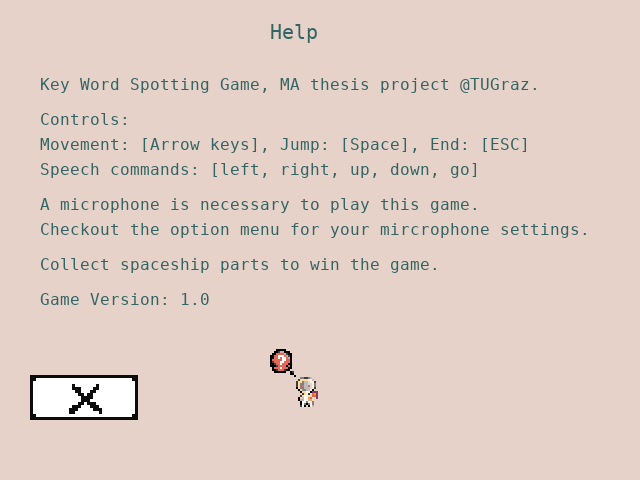
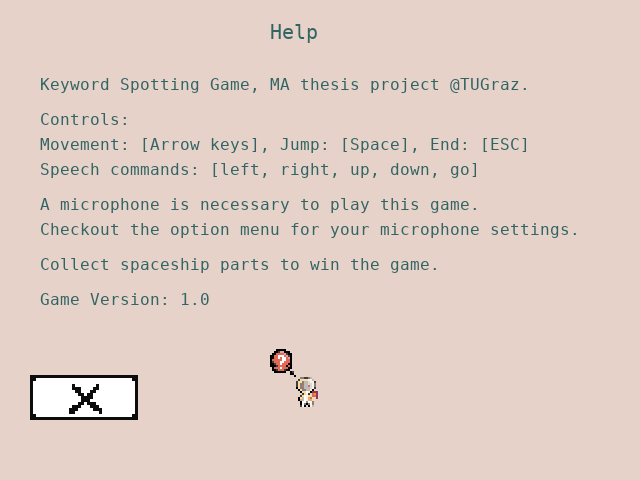
TW, JS proof-read

diff --git a/docu/thesis/1_intro/intro_rq.tex b/docu/thesis/1_intro/intro_rq.tex
@@ -3,10 +3,10 @@
 
 \section{Research Questions for this Thesis}\label{sec:intro_rq}
 This section formulates relevant research questions regarding KWS in video games.
-Those research questions can be split into 3 parts:
+They can be split into three parts:
 \begin{enumerate}[label={Q.\arabic*)}, leftmargin=1.4cm]
   \item Signal processing and feature extraction of speech signals.
-  \item Neural network training and classification for KWS.
+  \item Training of neural networks and classification for KWS.
   \item Video games with KWS.
 \end{enumerate}
 Note that the terms \enquote{key word} and \enquote{speech command} are often named interchangeably because speech commands are used as key words in the KWS system.
@@ -18,12 +18,12 @@ Nevertheless, those questions can be asked and some solution concepts discussed.
 % signal
 
 \subsection{Signal Processing and Feature Extraction Research Questions}\label{sec:intro_rq_signal}
-Acquiring meaningful features from speech signals is essential for neural networks to operate on. 
+It is essential for neural networks to input meaningful features that are extracted from the speech signals. 
 The features are extracted from raw audio samples of a microphone input stream in a specific time interval.
 Those retrieved features are further input to a neural network for the classification of speech commands.
 The following Questions arise here:
 \begin{enumerate}[label={Q.1.\alph*)}, leftmargin=1.75cm]
-  \item Which time interval should be captured to represent a speech command?\label{it:q1-a}
+  \item Which time interval should be used to capture a speech command?\label{it:q1-a}
   \item Does the signal processing have to be invariant to background noise and especially to game sounds?\label{it:q1-b}
   \item What are meaningful features for speech recognition?\label{it:q1-c}
 \end{enumerate}
@@ -39,7 +39,7 @@ Problems might occur if the speech commands are spoken repeatedly and very hasty
 Ideally the time interval to represent a speech command would be flexible but this more difficult to implement than a fixed time interval.
 
 \textbf{Question \ref{it:q1-b}:}
-Usually the presence of low background noise should not be a problem for neural networks trained on a large enough data set. 
+Usually the presence of weak background noise should not be a problem for neural networks trained on a large enough data set. 
 The game sounds might present a more difficult problem, when turned up too loud without the use of headphones. 
 Therefore, the microphone will not only capture the voice of a speaker but also a fair amount of game sounds. 
 This problem seems to be theoretically solvable as the shape of the nuisance is known and the amount of game sound in the audio stream could be attenuated sufficiently.
@@ -52,7 +52,7 @@ The determination of meaningful features for speech signals is a classical probl
 The essential composition of a word may help to understand the problematic better.
 A word is a sequential combination of either vowels, such as \enquote{a} and \enquote{e}, or consonants \enquote{k}, \enquote{l}, with a certain length. 
 In linguistics, for instance, it is possible to distinguish vowels with frequency peaks in a spectrogram, where a spectrogram is the magnitude squared of the frequency response of small time chunks over the time duration of a signal.
-However, due to many different factors in voice generation involved in speakers, such as age, gender, nationality and physiology of the vocal tract, there is a huge variance in the pronunciation of words from different persons, which increases the difficulty of the problem.
+However, due to many different factors in voice generation involved in speakers, such as age, gender, nationality, and physiology of the vocal tract, there is a huge variance in the pronunciation of words from different persons, which increases the difficulty of the problem.
 A very common approach is to use MFCCs as features for speech recognition tasks.
 Why MFCCs present reasonable features for speech, is described in detail in \rsec{signal_mfcc}.
 
@@ -60,7 +60,7 @@ Why MFCCs present reasonable features for speech, is described in detail in \rse
 % --
 % neural networks
 
-\subsection{Neural Network Implementation Research Questions}\label{sec:intro_rq_nn}
+\subsection{Neural Network Research Questions}\label{sec:intro_rq_nn}
 Neural networks for video games should ideally be very efficient and provide accurate classifications of input features.
 The vocabulary in a KWS task has to be specified for the individual game and chosen from all class labels available in the dataset.
 Each key word of the vocabulary is presented by one output node of the neural network architecture.
@@ -81,7 +81,7 @@ The dataset consist of 35 labels and contains commands for movement and numbers.
 Further, it includes randomly selected words like \enquote{marvin} or \enquote{bird} intended to represent \emph{unknown} words for the KWS system.
 It has to be noted that not every game idea can be realized with a restricted vocabulary.
 Nevertheless, with commands for movement like \enquote{left} or \enquote{go} it is possible to move objects within a game and this can already be used for many game mechanics.
-An aspect regarding efficiency, is to restrict the amount of key words in the vocabulary as much as possible such that a cheaper neural network architecture can be deployed, which of course should still be sufficiently good in its classification accuracy.
+An aspect regarding efficiency, is to restrict the amount of key words in the vocabulary as much as possible such that a lightweight neural network architecture can be deployed, which of course should still be sufficiently good in its classification accuracy.
 
 \textbf{Question \ref{it:q2-b}:} 
 Without doubt, players will try out words that are not in the vocabulary (denoted as \emph{unknown} key words) and observe the response of the video game.
@@ -112,7 +112,7 @@ Following questions can be stated:
 \end{enumerate}
 \noindent
 \textbf{Question \ref{it:q3-a}:} 
-It is crucial to reduce computations in a video game in order to keep it running fluently during high performance peaks.
+It is crucial to reduce the computational complexity in a video game in order to keep it running fluently during high performance peaks.
 Also the unnecessary processing of meaningless input data should be avoided as much as possible.
 Ideally the key word classification is activated, when there is actually a speech command present, which however is not always trivial.
 One possibility to indicate the onset of a key word is to perform the relatively efficient calculation of an energy value within a certain time interval of the raw input data stream and have a simple threshold value decide, whether a speech command is available. 

diff --git a/docu/thesis/3_signal/signal_mfcc.tex b/docu/thesis/3_signal/signal_mfcc.tex
@@ -35,7 +35,7 @@ The frequency spectrum is separated into filter bands through triangular window 
 Those window functions are equidistantly placed onto the Mel scale and therefore result in a varying number of frequency bins in the frequency scale for each window.
 The lower frequency bands receive fewer frequency bins, than the higher frequency bands.
 Sometimes the height of the individual triangular windows is scaled down such that the effect of unequal amounts frequency bins is equalized.
-However, high frequency signals usually carry less energy and therefore this scaling is in most cases neglected or not preferred.
+However, high frequency signals usually carry less energy so that this scaling is in most cases neglected or not preferred.
 
 The Mel - frequency relation can be approximated by:
 % mel
@@ -112,7 +112,7 @@ A solution to this problem is to normalize the feature vectors over each frame d
 \begin{equation}\label{eq:signal_mfcc_norm}
   U[c, m] \gets \frac{U[c, m] + \vert \underset{m \in \mathcal{M}}{\min} \bm{u}_c \vert}{\norm{\bm{u}_c + \vert \underset{m \in \mathcal{M}}{\min} \bm{u}_c \vert}_\infty} \quad \forall \, c, m = (0, 1, \dots, C - 1), (0, 1, \dots, M - 1)
 \end{equation}
-where $c$ is the individual MFCC coefficient, $m$ the frame (time) index and $\bm{u}_c \in \R^M$ the individual MFCC coefficient vector over all frames $M$.
+where $c$ is the individual MFCC coefficient, $m$ the frame (time) index, and $\bm{u}_c \in \R^M$ the individual MFCC coefficient vector over all frames $M$.
 This equation results in a value space between $[0, 1]$ for each feature vector $\bm{u}_c$.
 This normalization technique is denoted as \emph{frame-based normalization} and will be an important evaluation subject in the following sections.
 
@@ -147,7 +147,7 @@ The deltas are simply computed as frame difference of the MFCCs by:
   \Delta u_c[m] = \frac{u_c[m - 1] + u_c[m + 1]}{2}
 \end{equation}
 where $u_c[m]$ is the c-th MFCC coefficient at frame $m$, where $m = 0, 1, \dots, M$ is therefore the frame index of a total number of $M$ frames.
-Note that the computation of the deltas at the edges $m=0$ and $m=M$, is not possible and the same value is obtained from the neighbor at this specific positions.
+Note that the computation of the deltas at the edges $m=0$ and $m=M$ is not possible and that the same value is obtained from the neighbor at this specific positions.
 The second derivative of MFCC features, known as double deltas, are the frame differences of the deltas and likewise computed as in \req{signal_mfcc_delta}.
 Another enhancement is the computation of an energy feature vector of the MFCCs expressed by:
 \begin{equation}
@@ -156,7 +156,7 @@ Another enhancement is the computation of an energy feature vector of the MFCCs 
 where $\bm{u}[m] \in \R^C$ is the MFCC feature vector of frame $m$.
 The same energy computation may also be applied to the deltas and double deltas.
 
-A concatenation of all features vectors and their enhancements into a single feature matrix, is usually performed by simply stacking the MFCCs, their deltas, double deltas and energy vectors at top of each other.
+A concatenation of all features vectors and their enhancements into a single feature matrix, is usually performed by simply stacking the MFCCs, their deltas, double deltas, and energy vectors at top of each other.
 In this thesis the stacking of features and enhancements is done in following constellation:
 \begin{enumerate}
     \item 12 MFCCs
@@ -176,7 +176,7 @@ The computation of 39 MFCCs from the showcase examples are shown in \rfig{signal
     \subfigure[up]{\includegraphics[width=0.45\textwidth]{./3_signal/figs/signal_mfcc_showcase_mfcc39_up0.png}}
     \subfigure[down]{\includegraphics[width=0.45\textwidth]{./3_signal/figs/signal_mfcc_showcase_mfcc39_down0.png}}
     \subfigure[go]{\includegraphics[width=0.45\textwidth]{./3_signal/figs/signal_mfcc_showcase_mfcc39_go0.png}}
-  \caption{MFCCs extracted from the showcase examples with 32 filter bands and 12 cepstral coefficients, deltas, double deltas and energy vector visualized with frame-based normalization.}
+  \caption{MFCCs extracted from the showcase examples with 32 filter bands and 12 cepstral coefficients, deltas, double deltas, and energy vector visualized with frame-based normalization.}
   \label{fig:signal_mfcc_showcase_mfcc39}
 \end{figure}
 \FloatBarrier
@@ -194,7 +194,7 @@ The computational complexity for the extraction of MFCC features is the amount o
 All MFCC specific extraction details are collected in \rtab{signal_mfcc_extraction_params}.
 \input{./3_signal/tables/tab_signal_mfcc_extraction_params}
 The amount of operations are the total number of additions and multiplications necessary to fulfill the process.
-The major components of the MFCC are, as described in \rsec{signal_mfcc_pipeline} and summarized in \req{signal_mfcc_mfcc}, the transformation to the STFT, the weighting with the filter bands and the DCT transform.
+The major components of the MFCC are, as described in \rsec{signal_mfcc_pipeline} and summarized in \req{signal_mfcc_mfcc}, the transformation to the STFT, the weighting with the filter bands, and the DCT transform.
 The most costly component is of course the STFT, which again is composed of the DFT.
 Note that the DFT uses complex multiplications and additions.
 One complex multiplication equals to 4 real multiplication and 2 additions, so one complex multiplication consists of 6 operations.

diff --git a/game/canvas.py b/game/canvas.py
@@ -141,15 +141,14 @@ class CanvasHelpMenu(Canvas):
 
     # add text
     self.interactable_dict.update({'text_title': Text(self.canvas_surf, message='Help', position=(270, 20), font_size='small', color=self.color_bag.text_menu)})
-    self.interactable_dict.update({'text_project': Text(self.canvas_surf, message='Key Word Spotting Game, MA thesis project @TUGraz.', position=(40, 75 + 25*0 + 10*0), font_size='tiny_small', color=self.color_bag.text_menu)})
+    self.interactable_dict.update({'text_project': Text(self.canvas_surf, message='Keyword Spotting Game, MA thesis project @TUGraz.', position=(40, 75 + 25*0 + 10*0), font_size='tiny_small', color=self.color_bag.text_menu)})
     self.interactable_dict.update({'text_controls': Text(self.canvas_surf, message='Controls:', position=(40, 75 + 25*1 + 10*1), font_size='tiny_small', color=self.color_bag.text_menu)})
     self.interactable_dict.update({'text_help1': Text(self.canvas_surf, message='Movement: [Arrow keys], Jump: [Space], End: [ESC]', position=(40, 75 + 25*2 + 10*1), font_size='tiny_small', color=self.color_bag.text_menu)})
     self.interactable_dict.update({'text_help2': Text(self.canvas_surf, message='Speech commands: [left, right, up, down, go]', position=(40, 75 + 25*3 + 10*1), font_size='tiny_small', color=self.color_bag.text_menu)})
     self.interactable_dict.update({'text_help3': Text(self.canvas_surf, message='A microphone is necessary to play this game.', position=(40, 75 + 25*4 + 10*2), font_size='tiny_small', color=self.color_bag.text_menu)})
-    self.interactable_dict.update({'text_help4': Text(self.canvas_surf, message='Checkout the option menu for your mircrophone settings.', position=(40, 75 + 25*5 + 10*2), font_size='tiny_small', color=self.color_bag.text_menu)})
+    self.interactable_dict.update({'text_help4': Text(self.canvas_surf, message='Checkout the option menu for your microphone settings.', position=(40, 75 + 25*5 + 10*2), font_size='tiny_small', color=self.color_bag.text_menu)})
     self.interactable_dict.update({'text_help5': Text(self.canvas_surf, message='Collect spaceship parts to win the game.', position=(40, 75 + 25*6 + 10*3), font_size='tiny_small', color=self.color_bag.text_menu)})
     self.interactable_dict.update({'text_help6': Text(self.canvas_surf, message='Game Version: 1.0', position=(40, 75 + 25*7 + 10*4), font_size='tiny_small', color=self.color_bag.text_menu)})
-    #self.interactable_dict.update({'text_credits': Text(self.canvas_surf, message='Credits: Christian Walter', position=(40, 50 + 200), font_size='tiny_small', color=self.color_bag.text_menu)})
 
     # end button
     self.interactable_dict.update({'end_button': EndButton(self.canvas_surf, position=(30, 375), scale=(3, 3))})
@@ -252,7 +251,7 @@ class CanvasCommand(Canvas):
     self.interactable_dict.update({'text_class{}'.format(v): Text(self.canvas_surf, message='{}'.format(k), position=(30 + 90 * int(v > 5), (5 + 30 + 18*2) + 15 * v - (15 * 6) * int(v > 5)), font_size='tiny', color=self.color_bag.text_menu) for (k, v) in self.mic.classifier.class_dict.items()})
 
     # kws text
-    self.interactable_dict.update({'text_kws': Text(self.canvas_surf, message='Key Word Spotting', position=(10, 190), font_size='tiny_small', color=self.color_bag.text_menu_active, enabled=False)})    
+    self.interactable_dict.update({'text_kws': Text(self.canvas_surf, message='Keyword Spotting', position=(10, 190), font_size='tiny_small', color=self.color_bag.text_menu_active, enabled=False)})    
     self.interactable_dict.update({'text_cmd{}'.format(i): Text(self.canvas_surf, message='_', position=(30, 190 + 30 + 18 * i), font_size='tiny', color=self.color_bag.text_menu_active, enabled=False) for i in range(0, self.num_kws_cmds)})
 
 

diff --git a/docu/thesis/6_game/game_design.tex b/docu/thesis/6_game/game_design.tex
@@ -2,7 +2,7 @@
 % game design
 
 \section{Game Design}\label{sec:game_design}
-The game design includes essentially all considerations regarding rules, game mechanics, ideas, level and character designs, story and many more. 
+The game design includes essentially all considerations regarding rules, game mechanics, ideas, level and character designs, story, and many more. 
 Prior to explaining the game and its rules, it is important to mention the game menu and its vital settings for the input microphone device.
 The game rules explain the win and loose condition of the video game.
 Game mechanics define how the player interacts in the world and how to create actions that change the states of dedicated game objects.
@@ -21,9 +21,9 @@ It usually consists of several selectable buttons that are referencing, for inst
 The main and help menu of the deployed video game is shown in \rfig{game_design_menu_mainhelp}.
 \begin{figure}[!ht]
   \centering
-  \subfigure[Main Menu]{\includegraphics[width=0.45\textwidth]{./6_game/figs/game_design_menu_main.png}}
+  \subfigure[Main menu]{\includegraphics[width=0.45\textwidth]{./6_game/figs/game_design_menu_main.png}}
   \qquad
-  \subfigure[Help Menu]{\includegraphics[width=0.45\textwidth]{./6_game/figs/game_design_menu_help.png}}
+  \subfigure[Help menu]{\includegraphics[width=0.45\textwidth]{./6_game/figs/game_design_menu_help.png}}
   \caption{Main and help menu of the KWS game.}
   \label{fig:game_design_menu_mainhelp}
 \end{figure}
@@ -56,11 +56,12 @@ All option menu screens are shown in \rfig{game_design_menu_options}.
 % game rules
 
 \subsection{Game Rules}\label{sec:game_design_rules}
-A simple adventure game in a 2D-platformer view (movement are left-right and jump, like the classical \enquote{Super Mario} games) was implemented, where the player has to collect objects and dodge enemies.
-The win and loose condition of the game describe the rules to either win or loose the game.
+The implemented video game uses a simple 2D-platformer view, where the movement of the players is limited to left, right, and jump, similar to the classical \enquote{Super Mario} games.
+A win and loose condition describes the rules to either win or loose the game.
 In an attempt to satisfy the win condition, the player has to collect a single object within each individual level.
 Where the levels had been designed such that the player has to use speech commands in order to collect the desired object.
-Conversely, the player satisfies the loose condition by colliding with an enemy, which of course should be avoided.
+If all objects are successfully collected, the game ends and shows the credit screen.
+Conversely, the player satisfies the loose condition by colliding with an enemy, which of course should be avoided by dodging them.
 If the player runs into an enemy, a loose screen appears and the same level has to be restarted from its initial state.
 
 
@@ -76,7 +77,7 @@ A level can contain several moveable blocks and the switch between those is done
 The selected movable block is highlighted with a different color to distinguish it from the other moveable blocks.
 Furthermore, all movable blocks share the same base color to distinguish them from ordinary walls.
 At all times only one of all moveable block can be controlled by the player.
-The moveable blocks, walls and the collectable object are shown in \rfig{game_design_mechanic_thing} from a section of Level One.
+The moveable blocks, walls, and the collectable object are shown in \rfig{game_design_mechanic_thing} from a section of Level One.
 \begin{figure}[!ht]
   \centering
   \includegraphics[height=0.25\textwidth]{./6_game/figs/game_design_mechanic_thing.png}

diff --git a/docu/thesis/4_nn/nn_adv.tex b/docu/thesis/4_nn/nn_adv.tex
@@ -22,7 +22,7 @@ In \req{nn_theory_gan} the game is notated as min-max game, from which the loss 
 \begin{equation}
   l_D(x_i, z_i, G) = l(D(x_i), y_r) + l(D(G(z_i)), y_f)
 \end{equation}
-where $l$ is the binary cross-entropy loss described in \req{nn_theory_binary_cross_entropy}, $D: \mathcal{X} \mapsto [0, 1]$ and $G: \mathcal{Z} \mapsto \mathcal{X}$ are the D and G model, $x_i \in \mathcal{X}$ is a data example, $z_i \in \mathcal{Z}$ is a randomly sampled latent variable, $y_r = 1$ is the real label and $y_f = 0$ the fake label for that specific example $i$.
+where $l$ is the binary cross-entropy loss described in \req{nn_theory_binary_cross_entropy}, $D: \mathcal{X} \mapsto [0, 1]$ and $G: \mathcal{Z} \mapsto \mathcal{X}$ are the D and G model, $x_i \in \mathcal{X}$ is a data example, $z_i \in \mathcal{Z}$ is a randomly sampled latent variable, $y_r = 1$ is the real label, and $y_f = 0$ the fake label for that specific example $i$.
 In contrast the loss of G, denoted as $l_G$, is given by:
 \begin{equation}
   l_G(z_i, D) =  l(D(G(z_i)), y_r)
@@ -33,7 +33,7 @@ An extended approach, so that G produces samples specifically similar to the dat
 \begin{equation}
   s(\bm{x_1}, \bm{x_2}) = \frac{\bm{x_1}^T \bm{x_2}}{\norm{\bm{x_1}}_2 \cdot \norm{\bm{x_2}}_2 + \epsilon} 
 \end{equation}
-where $s : (\mathcal{X}, \mathcal{X}) \mapsto [0, 1]$ is the cosine similarity function, $\bm{x_1}$ and $\bm{x_2}$ are two vectors for similarity measure and $\epsilon$ is a small number such that no division by zero is possible.
+where $s : (\mathcal{X}, \mathcal{X}) \mapsto [0, 1]$ is the cosine similarity function, $\bm{x_1}$ and $\bm{x_2}$ are two vectors for similarity measure, and $\epsilon$ is a small number such that no division by zero is possible.
 With the similarity loss incorporated, $l_G$ gets:
 \begin{equation}
   l_G(x_i, z_i, D) =  l(D(G(z_i)), y_r) + \lambda \left(1 - \frac{1}{C} \sum_{c=0}^{C} s(\hat{\bm{e}}_c^T x_i , \hat{\bm{e}}_c^T G(z_i)) \right)
@@ -62,7 +62,7 @@ For example, each label train gets 8 filters in the first convolutional layer.
 \begin{figure}[!ht]
   \centering
     \includegraphics[width=0.85\textwidth]{./4_nn/figs/nn_adv_label_scheme.pdf}
-  \caption{Label train scheme showing the first convolutional layers of \texttt{adv-d-jim}, \texttt{adv-g-jim} and \texttt{conv-jim} with 6 label subset as separate training instances using 100 epochs.}
+  \caption{Label train scheme showing the first convolutional layers of \texttt{adv-d-jim}, \texttt{adv-g-jim} and \texttt{conv-jim} with 6 label subsets as separate training instances using 100 epochs.}
   \label{fig:nn_adv_label_scheme}
 \end{figure}
 \FloatBarrier

diff --git a/docu/thesis/2_prev/prev_nn.tex b/docu/thesis/2_prev/prev_nn.tex
@@ -93,12 +93,13 @@ Regarding this thesis, it is questionable whether Wavenets are suited for the KW
 GANs emerged from Goodfellow et al. in 2014 \cite{Goodfellow2014} and was initially motivated by Game Theory of a two player zero-sum game with the Min-Max-Theorem as solution concept \cite{VonNeumann1944}.
 The game in terms of GANs is as follows: Two neural networks try to outperform the other in an adversary task, where the task of one network, denoted as Generator (G), is to counterfeit fake images, while the other network, denoted as Discriminator (D), has the task to discriminate, whether its been given real or fake images.
 In \cite{Radford2016} some practical guidelines for designing and training deep GAN architectures are provided by applying the Deep Convolutional Generative Adversarial Network (DCGAN) model.
-However, DCGANs merely consider image data and not speech signals but still were the first starting point for developing GANs in this thesis.
+Note that DCGANs merely consider image data and not speech signals, yet they were the first starting point for developing GANs in this thesis.
 
-The G network, has to perform a so called \emph{transposed convolution}, \emph{up-convolution} or \emph{de-convolution} for upsampling the low-dimensional image to the desired output dimensions of real sample images from a dataset.
+The G network has to perform a so called \emph{transposed convolution}, \emph{up-convolution}, or \emph{de-convolution} for upsampling the low-dimensional image to the desired output dimensions of real sample images from a dataset.
 The transposed convolution and some problems regarding GANs are described in \cite{Durall2020}.
 
-GANs are not the only application of adversarial neural networks, in \cite{Oezdenizci2020} it is shown how an adversarial network improves generalization over invariance of subject specific samples from Electroencephalogram (EEG) data.
+GANs are not the only application of adversarial neural networks. 
+In \cite{Oezdenizci2020} it is shown how an adversarial network improves generalization over invariance of subject specific samples from Electroencephalogram (EEG) data.
 The adversarial network in this paper is connected to a convolutional encoder network, which is also input to a classifier network.
 The update of the encoder network is therefore done via the adversarial network and the classifier network at the same time and specified in a collective loss function.
 

diff --git a/docu/thesis/5_exp/exp_dataset.tex b/docu/thesis/5_exp/exp_dataset.tex
@@ -70,8 +70,8 @@ The energy value $e \in \R$ can be computed as:
 \end{equation}
 where $\bm{x} \in \R^n$ represents a single recorded file with a total number of $n$ samples.
 The division through the sample length $n$ of each individual audio recording is required because not every file has a duration of \SI{1}{\second} (16000 samples).
-For an unknown reason, many of the recordings consist of less than 16000 samples, which would be problematic if the sample length is too low to capture a word.
-So the minimum duration of all examples was determined and was found to last about \SI{0.4}{\second}.
+For an unknown reason, many of the recordings consist of less than 16000 samples, which would be problematic if the sample length is too short to fully capture a key word.
+So the minimum duration of all examples was determined and found to last about \SI{0.4}{\second}.
 This however, is enough for words like \enquote{go}, where the reduced samples length often shows up.
 \rfig{exp_dataset_hist} shows the mentioned histograms of all available examples in the dataset.
 \begin{figure}[!ht]
@@ -105,7 +105,7 @@ The recording devices of the speakers, who contributed examples to the dataset, 
 
 The conclusions drawn from listening to the examples in the dataset are as follows:
 \begin{itemize}
-  \item The quality of the examples in the dataset are ranging from excellent and perfectly recognizable to very poor, noisy, unrecognizable and cut off. Though most of the examples are provided with sufficient quality.
+  \item The quality of the examples in the dataset are ranging from excellent and perfectly recognizable to very poor, noisy, unrecognizable, and cut off. Though most of the examples are provided with sufficient quality.
   \item Different accents had been perceived, which suggests that people from several nationalities were involved.
   However, the bias was laid on American English, as noted in the paper.
   \item No children speakers had been found.

diff --git a/docu/thesis/1_intro/intro.tex b/docu/thesis/1_intro/intro.tex
@@ -23,8 +23,8 @@ In terms of video games, the set of key words might have members like \enquote{l
 The limited set of key words is crucial to restrict the complexity of the recognition task, since in practical applications it is not necessary to cover all words of a natural language.
 Especially in video games, where the game environment is limited by rules, technical limits, and play-ability, KWS is perfectly suited as an alternative or augmented control system.
 The size of the vocabulary and the selected words are two parameters that influence on the one hand the choice of the neural network architectures, which are evaluated on their computational efficiency and accuracy performance, and on the other hand the game interaction limited by the controls a player can choose from.
-If the vocabulary of a KWS system would be too large, the chance of confusion between two different key words grows naturally.
-In many KWS applications it is absolutely necessary to include labels for \emph{background noise}, \emph{silence} and \emph{unknown words} in the vocabulary. 
+If the vocabulary of a KWS system would be too large, it would be harder to distinguish between two similar key words.
+In many KWS applications it is absolutely necessary to include labels for \emph{background noise}, \emph{silence}, and \emph{unknown words} in the vocabulary. 
 This is especially interesting in \emph{wake word} applications, where a single key word has to be detected over the previously mentioned labels representing all other possible words that can be spoken.
 Also in video games those additional labels are useful to prevent the player from eliciting unintended commands accidentally through, for instance, loud background noise.
 Therefore, a KWS system demands to be very accurate and fast in its classification of key words.

diff --git a/docu/thesis/5_exp/exp_fs.tex b/docu/thesis/5_exp/exp_fs.tex
@@ -132,9 +132,9 @@ The usage of 32 MFCC coefficients does not improve the invariance against shift 
 % enhancements
 
 \subsection{Impact on the Enhancements of MFCCs}\label{sec:exp_fs_mfcc}
-In this experiment the cepstral coefficients were selected to 12 and enhanced with deltas, double deltas and energy vectors, as described in \rsec{signal_mfcc_enhancement}.
-\rtab{exp_fs_mfcc_l12} lists the results of the experiments with applied frame-based normalization, 2000 training epochs and the standard hyperparameters for CNN models.
-Note that a \enquote{1} in the columns for the enhancements means that a specific enhancement is included, otherwise it is denoted as \enquote{0}. 
+The experiments fixes the amount of cepstral coefficients to 12 and enhances those with deltas, double deltas, and energy vectors, as described in \rsec{signal_mfcc_enhancement}.
+\rtab{exp_fs_mfcc_l12} lists the results of the experiments with applied frame-based normalization, 2000 training epochs, and the hyperparameter set for CNN models in \rtab{exp_details_params_train}.
+Note that a \enquote{1} in the columns for the cepstral coefficients and enhancements means that it is stacked to the input features, otherwise it is denoted as \enquote{0}.
 \input{./5_exp/tables/tab_exp_fs_mfcc_l12.tex}
 The best two feature enhancements were the full MFCC-39 features (c1d1d1e1) and the (c1d1d0e1) features without double deltas.
 Those were used for examining the accuracy on the validation set during training shown in \rfig{exp_fs_mfcc_tb_acc_conv-jim} and the noise and shift invariance in \rfig{exp_fs_mfcc_tb_noise_conv-jim} and \rfig{exp_fs_mfcc_tb_shift_conv-jim}.

diff --git a/docu/thesis/1_intro/intro_kws.tex b/docu/thesis/1_intro/intro_kws.tex
@@ -7,7 +7,7 @@ The set of key words $S$, also denoted as vocabulary, can be defined as:
 \begin{equation}\label{eq:intro_kws_dict}
 	S \coloneqq \{s_i \mid i = 0, 1, \dots, L\}
 \end{equation}
-with a total number of $L$ key words contained in the vocabulary and individual key words $s_i$ indexed with $i$.
+where $s_i$ represents the $i$-th key word of a set of $L$ key words.
 The task is to select the key word closest to the spoken word from the user, denoted as target $t$.
 The target does not necessarily have to be a member of the set of key words $S$, in fact it can be any arbitrary word.
 With the abstract formulation:
@@ -24,6 +24,6 @@ The most probable key word can therefore be picked by:
 where the index $i$ of the output class probability $y_i$ corresponds to the intended key word $s_i$ in the vocabulary.
 
 In comparison to full Automatic Speech Recognition (ASR), where whole sentences need to be identified, KWS operates merely on the word level.
-Therefore, KWS is a bit easier to deploy and less complex than ASR.
-Conversely, KWS systems have to run very energy efficiently on low energy devices, such as mobile phones, and provide immediate and accurate responses to the users.
+Therefore, KWS is slightly easier to deploy and less complex than ASR.
+Conversely, KWS systems have to run very energy efficiently on low-resource devices, such as mobile phones, and provide immediate and accurate responses to the users.
 A good elaboration on the requirements of KWS systems can be found in the motivation section of \cite{Warden2018}.

diff --git a/docu/thesis/4_nn/nn_arch.tex b/docu/thesis/4_nn/nn_arch.tex
@@ -12,10 +12,10 @@ The fundamental neural network architecture types were:
 where CNNs had been used for the classification of MFCC features and are therefore the main architecture type within this thesis.
 Generative models, such as GANs, were evaluated in regards of their ability to generate samples from the data distribution.
 Further, the trained weights from the convolutional layers of GANs were applied as pre-trained weights to initialize the weights of a CNN networks with the same convolutional layer structure.
-A completely different approach to the KWS task was the evaluation of Wavenets operating on raw audio samples as input features.
+In contrast to CNNs, Wavenets are using raw audio samples as input features.
 When deployed in an online system, the Wavenet architecture has no need to extract MFCC features.
-However, it will be shown that the overall computations are not reduced because the complexity of Wavenets require many operations.
-The amount of parameters and operations are listed for each architecture to provide a comparison between the used models regarding their computational footprint.
+However, it will be shown that the overall computations are not reduced because of the complexity of Wavenets.
+The amount of parameters and operations for each architecture are listed to provide a comparison between the used models regarding their computational footprint.
 
 
 % --

diff --git a/docu/thesis/1_intro/intro_games.tex b/docu/thesis/1_intro/intro_games.tex
@@ -19,7 +19,7 @@ A high number of key words will increase the chance of confusion and a small num
 The possibility to create separate classifiers with different sets of smaller vocabularies of speech commands arises, depending on which commands the player needs in the actual scene of the video game.
 For instance, if the player is in a dialogue with a Non Player Character (NPC), it makes sense to reduce the vocabulary to only \{\enquote{yes}, \enquote{no}\}, if those are the only actions to choose from.
 
-The use of labels for background noise, silence and unknown words depends on the game and how the classification process is activated.
+The use of labels for background noise, silence, and unknown words depends on the game and how the classification process is activated.
 If the assumption is made that a player chooses only from the key words in the dictionary, then the label of unknown words is not necessarily required.
 Nevertheless, the unknown label would be very interesting when key words are not that common to a player, such as words from a different language or fantasy words.
 The unknown label will therefore motivate the player to correctly pronounce the word itself, which could be also used in language learning games.
